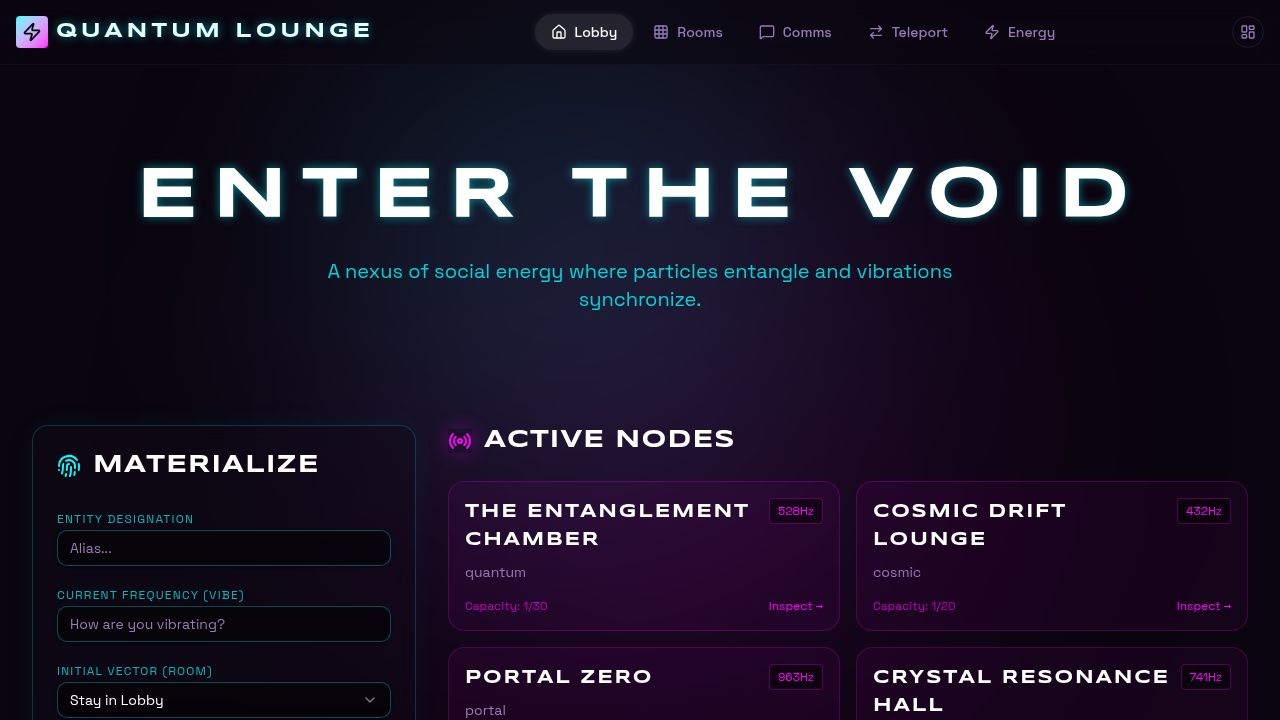
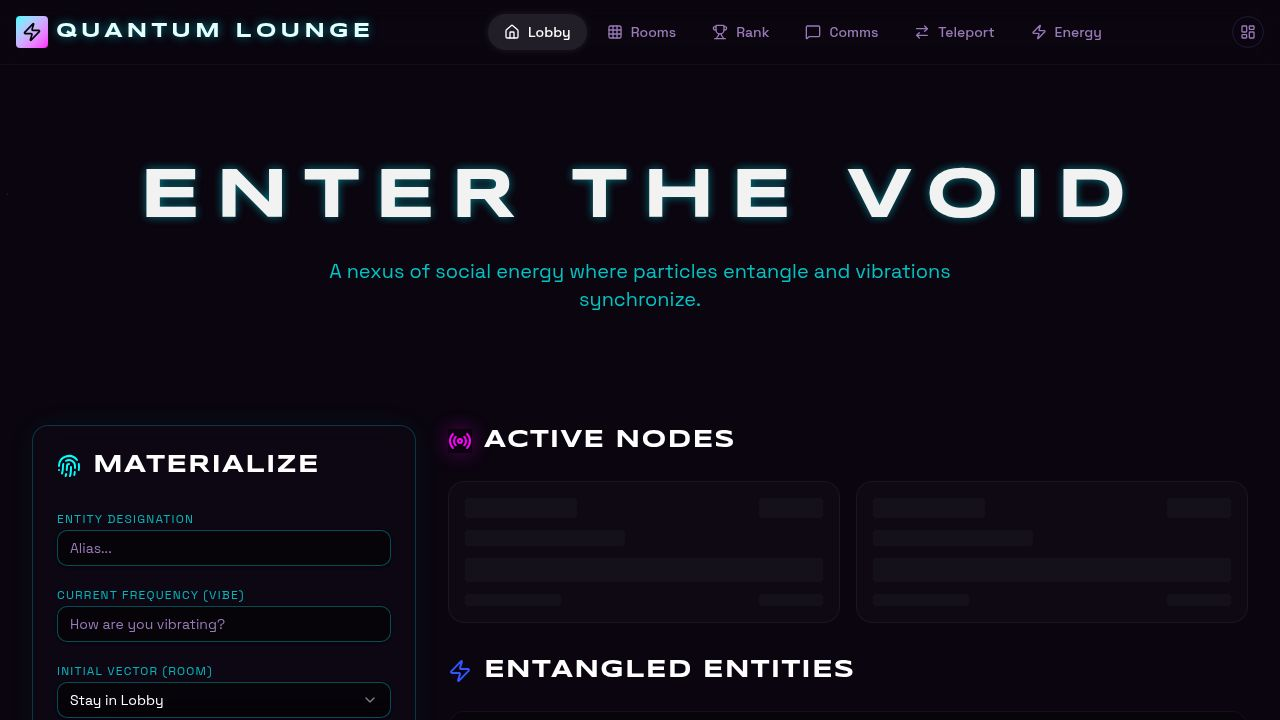
Add mobile navigation drawer to PublicLayout (Task #3)
## Task
Mobile users had no way to navigate between pages because the public
navbar used `hidden md:flex` to hide nav items on screens < 768px.

## Implementation
- Added a hamburger Menu button (lucide-react `Menu` icon) that is only
  visible on mobile (`md:hidden`) in the navbar right-side action area.
- Used the existing Sheet component (`@/components/ui/sheet`) to render
  a slide-in drawer from the left side when the hamburger is tapped.
- Drawer contains all six nav links: Lobby, Rooms, Rank, Comms,
  Teleport, Energy — each with its icon, label, and active indicator
  (glowing cyan dot + highlighted row).
- Each nav link is wrapped in `SheetClose` so tapping a link
  automatically closes the drawer.
- If the user is an owner, a "Control Panel" shortcut appears at the
  bottom of the drawer, also auto-closing on tap.
- Drawer header mirrors the brand logo for visual consistency.
- Styling matches the sci-fi theme: dark translucent background,
  backdrop blur, cyan glow accents, border highlight on active route.
- Desktop nav (`hidden md:flex`) is unchanged.

## Code review fixes
- Added `truncate max-w-[140px] sm:max-w-none` to lounge name span so
  long names don't overflow the header on narrow phones (320-360px).
- Added `<SheetTitle className="sr-only">Navigation</SheetTitle>` inside
  the drawer for Radix dialog accessibility compliance.
- Imported `SheetTitle` from the sheet component.

## Files changed
- `artifacts/quantum-lounge/src/components/layout.tsx`
[…]

diff --git a/artifacts/quantum-lounge/src/components/layout.tsx b/artifacts/quantum-lounge/src/components/layout.tsx
@@ -1,10 +1,11 @@
-import { ReactNode } from "react";
+import { ReactNode, useState } from "react";
 import { Link, useLocation } from "wouter";
 import { motion } from "framer-motion";
 import { useGetAuthMe, useOwnerLogout, getGetAuthMeQueryKey } from "@workspace/api-client-react";
 import { useQueryClient } from "@tanstack/react-query";
-import { LogOut, LayoutDashboard, Users, Grid, ListOrdered, Settings, Zap, ArrowRightLeft, MessageSquare, Home, Trophy } from "lucide-react";
+import { LogOut, LayoutDashboard, Users, Grid, ListOrdered, Settings, Zap, ArrowRightLeft, MessageSquare, Home, Trophy, Menu } from "lucide-react";
 import { Starfield } from "@/components/starfield";
+import { Sheet, SheetContent, SheetTrigger, SheetClose, SheetTitle } from "@/components/ui/sheet";
 
 export function OwnerLayout({ children }: { children: ReactNode }) {
   const [location] = useLocation();
@@ -84,6 +85,7 @@ export function OwnerLayout({ children }: { children: ReactNode }) {
 export function PublicLayout({ children }: { children: ReactNode }) {
   const [location] = useLocation();
   const { data: auth } = useGetAuthMe();
+  const [mobileOpen, setMobileOpen] = useState(false);
 
   const navItems = [
     { href: "/", label: "Lobby", icon: Home },
@@ -107,12 +109,13 @@ export function PublicLayout({ children }: { children: ReactNode }) {
               <div className="w-8 h-8 rounded bg-gradient-to-br from-primary to-secondary flex items-center justify-center group-hover:shadow-[0_0_20px_rgba(0,243,255,0.4)] transition-all">
                 <Zap className="w-5 h-5 text-black" />
               </div>
-              <span className="font-display font-bold tracking-[0.2em] text-xl glow-text-primary uppercase">
+              <span className="font-display font-bold tracking-[0.2em] text-xl glow-text-primary uppercase truncate max-w-[140px] sm:max-w-none">
                 {auth?.loungeName || "Quantum Lounge"}
               </span>
             </div>
           </Link>
 
+          {/* Desktop nav */}
           <nav className="hidden md:flex items-center gap-1">
             {navItems.map((item) => {
               const isActive = location === item.href;
@@ -133,7 +136,7 @@ export function PublicLayout({ children }: { children: ReactNode }) {
             })}
           </nav>
 
-          <div className="flex items-center gap-4">
+          <div className="flex items-center gap-2">
             {auth?.isOwner ? (
               <Link href="/owner/dashboard">
                 <div className="px-4 py-2 rounded border border-primary/50 text-primary text-sm font-bold uppercase tracking-wider hover:bg-primary/10 transition-colors cursor-pointer">
@@ -147,6 +150,75 @@ export function PublicLayout({ children }: { children: ReactNode }) {
                 </div>
               </Link>
             )}
+
+            {/* Mobile hamburger */}
+            <Sheet open={mobileOpen} onOpenChange={setMobileOpen}>
+              <SheetTrigger asChild>
+                <button
+                  className="md:hidden flex items-center justify-center w-9 h-9 rounded border border-border/50 text-muted-foreground hover:text-white hover:border-primary/50 hover:bg-primary/10 transition-all duration-300"
+                  aria-label="Open navigation menu"
+                >
+                  <Menu className="w-5 h-5" />
+                </button>
+              </SheetTrigger>
+              <SheetContent
+                side="left"
+                className="w-72 bg-background/95 backdrop-blur-xl border-r border-primary/20 p-0"
+              >
+                {/* Drawer header */}
+                <div className="p-6 border-b border-border/40">
+                  <SheetTitle className="sr-only">Navigation</SheetTitle>
+                  <div className="flex items-center gap-2">
+                    <div className="w-8 h-8 rounded bg-gradient-to-br from-primary to-secondary flex items-center justify-center shadow-[0_0_15px_rgba(0,243,255,0.3)]">
+                      <Zap className="w-5 h-5 text-black" />
+                    </div>
+                    <span className="font-display font-bold tracking-[0.2em] text-lg glow-text-primary uppercase">
+                      {auth?.loungeName || "Quantum Lounge"}
+                    </span>
+                  </div>
+                </div>
+
+                {/* Drawer nav links */}
+                <nav className="p-4 space-y-1">
+                  {navItems.map((item) => {
+                    const isActive = location === item.href;
+                    return (
+                      <SheetClose asChild key={item.href}>
+                        <Link href={item.href}>
+                          <div
+                            className={`flex items-center gap-3 px-4 py-3 rounded-md transition-all duration-300 cursor-pointer ${
+                              isActive
+                                ? "bg-primary/15 text-primary border border-primary/30 shadow-[0_0_12px_rgba(0,243,255,0.12)]"
+                                : "text-muted-foreground hover:bg-white/5 hover:text-white"
+                            }`}
+                          >
+                            <item.icon className="w-5 h-5 flex-shrink-0" />
+                            <span className="font-medium tracking-wide">{item.label}</span>
+                            {isActive && (
+                              <span className="ml-auto w-1.5 h-1.5 rounded-full bg-primary shadow-[0_0_6px_rgba(0,243,255,0.8)]" />
+                            )}
+                          </div>
+                        </Link>
+                      </SheetClose>
+                    );
+                  })}
+                </nav>
+
+                {/* Drawer footer */}
+                {auth?.isOwner && (
+                  <div className="absolute bottom-0 left-0 right-0 p-4 border-t border-border/40">
+                    <SheetClose asChild>
+                      <Link href="/owner/dashboard">
+                        <div className="flex items-center gap-3 px-4 py-3 rounded-md border border-primary/30 text-primary hover:bg-primary/10 transition-all duration-300 cursor-pointer">
+                          <LayoutDashboard className="w-5 h-5" />
+                          <span className="font-bold uppercase tracking-wider text-sm">Control Panel</span>
+                        </div>
+                      </Link>
+                    </SheetClose>
+                  </div>
+                )}
+              </SheetContent>
+            </Sheet>
           </div>
         </div>
       </header>